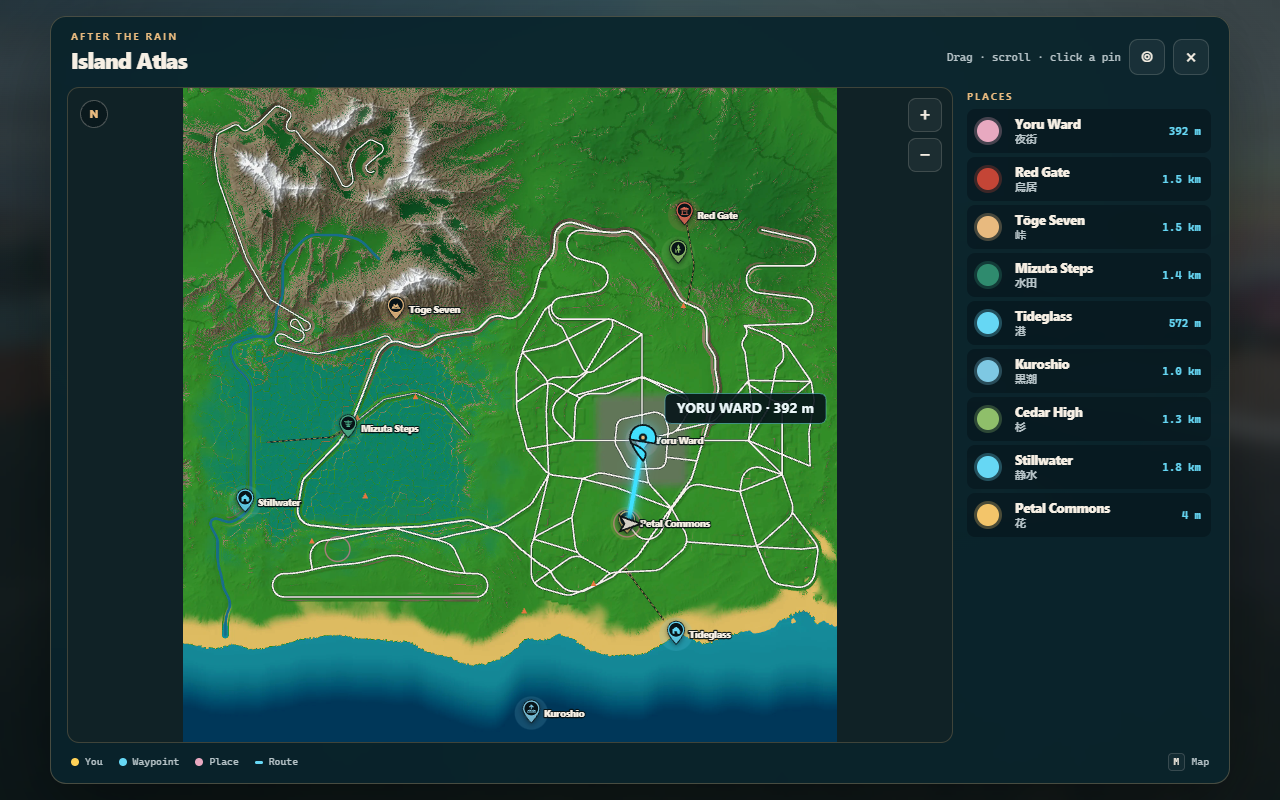
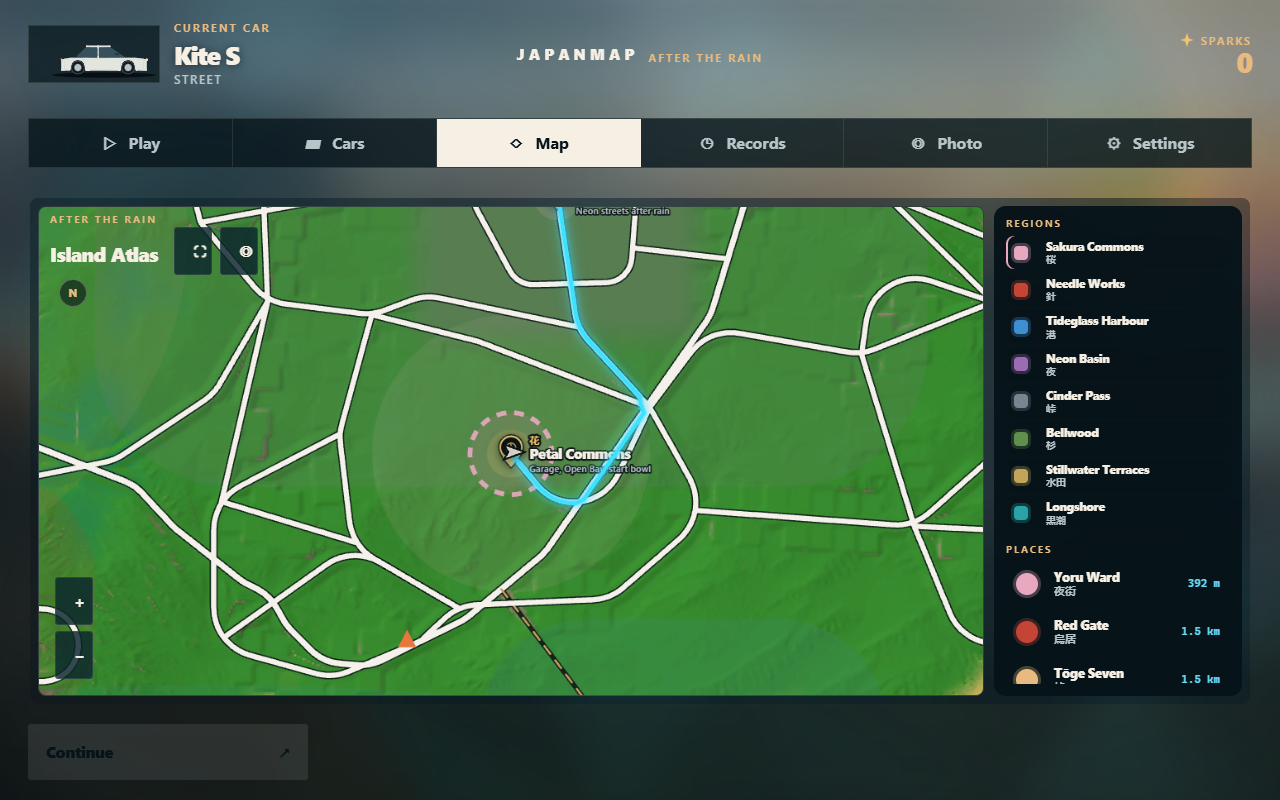
agent(agent/atlas): done

diff --git a/src/ui/navigationMapData.ts b/src/ui/navigationMapData.ts
@@ -19,6 +19,8 @@ export interface MapLandmark {
   readonly icon: MapLandmarkIcon;
   /** Ab welcher Kartenbreite der Text neben dem Icon stehen darf. */
   readonly labelMinPx: number;
+  /** Region-level pin: visible from mid zoom. Interiors wait until near. */
+  readonly major?: boolean;
 }
 
 /**
@@ -30,12 +32,6 @@ export interface MapLandmark {
  * an echte Orte, nicht an generische „City / Forest"-Stempel.
  */
 export const MAP_LANDMARKS: readonly MapLandmark[] = [
-  { id: 'komorebi-diner', label: 'Komorebi Diner', kanji: '食堂', detail: 'Walk inside · counter seats and a warm kitchen', x: 505, z: 35, icon: 'village', labelMinPx: 720 },
-  { id: 'corner-mart', label: 'Kōji Corner Mart', kanji: '小路', detail: 'Walk inside · neighborhood shop', x: 644, z: 145, icon: 'village', labelMinPx: 800 },
-  { id: 'rain-garden', label: 'Rain Garden', kanji: '庭', detail: 'Pond bridge · pavilion · lantern paths', x: 705, z: 48, icon: 'forest', labelMinPx: 740 },
-  { id: 'beacon-tower', label: 'Beacon Tower', kanji: '灯台', detail: 'Twin fins above the hillside courtyard', x: 1116.731, z: -322.865, icon: 'city', labelMinPx: 660 },
-  { id: 'market-hall', label: 'Market Hall', kanji: '市場', detail: 'Open timber hall and produce stalls', x: 474.253, z: 723.877, icon: 'village', labelMinPx: 700 },
-  { id: 'rotor-court', label: 'Rotor Court', kanji: '工房', detail: 'Workshop courtyard and rotary sculpture', x: 205.149, z: 265.145, icon: 'drift', labelMinPx: 700 },
   {
     id: 'stadt',
     label: 'Yoru Ward',
@@ -45,6 +41,7 @@ export const MAP_LANDMARKS: readonly MapLandmark[] = [
     z: 120,
     icon: 'city',
     labelMinPx: 520,
+    major: true,
   },
   {
     id: 'tempel',
@@ -55,6 +52,7 @@ export const MAP_LANDMARKS: readonly MapLandmark[] = [
     z: -940,
     icon: 'temple',
     labelMinPx: 540,
+    major: true,
   },
   {
     id: 'bergpass',
@@ -65,6 +63,7 @@ export const MAP_LANDMARKS: readonly MapLandmark[] = [
     z: -495,
     icon: 'mountain',
     labelMinPx: 600,
+    major: true,
   },
   {
     id: 'reisfelder',
@@ -75,6 +74,7 @@ export const MAP_LANDMARKS: readonly MapLandmark[] = [
     z: 60,
     icon: 'paddy',
     labelMinPx: 560,
+    major: true,
   },
   {
     id: 'fischerdorf',
@@ -85,6 +85,7 @@ export const MAP_LANDMARKS: readonly MapLandmark[] = [
     z: 1030,
     icon: 'village',
     labelMinPx: 620,
+    major: true,
   },
   {
     id: 'kueste',
@@ -95,6 +96,7 @@ export const MAP_LANDMARKS: readonly MapLandmark[] = [
     z: 1400,
     icon: 'coast',
     labelMinPx: 660,
+    major: true,
   },
   {
     id: 'wald',
@@ -105,6 +107,7 @@ export const MAP_LANDMARKS: readonly MapLandmark[] = [
     z: -760,
     icon: 'forest',
     labelMinPx: 700,
+    major: true,
   },
   {
     id: 'stillwater',
@@ -115,6 +118,7 @@ export const MAP_LANDMARKS: readonly MapLandmark[] = [
     z: 409,
     icon: 'village',
     labelMinPx: 620,
+    major: true,
   },
   {
     id: 'commons',
@@ -125,7 +129,14 @@ export const MAP_LANDMARKS: readonly MapLandmark[] = [
     z: 510,
     icon: 'garage',
     labelMinPx: 540,
+    major: true,
   },
+  { id: 'komorebi-diner', label: 'Komorebi Diner', kanji: '食堂', detail: 'Walk inside · counter seats and a warm kitchen', x: 505, z: 35, icon: 'village', labelMinPx: 720 },
+  { id: 'corner-mart', label: 'Kōji Corner Mart', kanji: '小路', detail: 'Walk inside · neighborhood shop', x: 644, z: 145, icon: 'village', labelMinPx: 800 },
+  { id: 'rain-garden', label: 'Rain Garden', kanji: '庭', detail: 'Pond bridge · pavilion · lantern paths', x: 705, z: 48, icon: 'forest', labelMinPx: 740 },
+  { id: 'beacon-tower', label: 'Beacon Tower', kanji: '灯台', detail: 'Twin fins above the hillside courtyard', x: 1116.731, z: -322.865, icon: 'city', labelMinPx: 660 },
+  { id: 'market-hall', label: 'Market Hall', kanji: '市場', detail: 'Open timber hall and produce stalls', x: 474.253, z: 723.877, icon: 'village', labelMinPx: 700 },
+  { id: 'rotor-court', label: 'Rotor Court', kanji: '工房', detail: 'Workshop courtyard and rotary sculpture', x: 205.149, z: 265.145, icon: 'drift', labelMinPx: 700 },
 ] as const;
 
 export function formatMapDistance(meters: number): string {

diff --git a/src/ui/navigationMap.css b/src/ui/navigationMap.css
@@ -69,8 +69,8 @@
 
 .navmap--docked .navmap__head {
   position: absolute;
-  left: 16px;
-  top: 12px;
+  left: 20px;
+  top: 16px;
   z-index: 8;
   padding: 0;
   pointer-events: none;
@@ -81,41 +81,52 @@
 }
 
 .navmap--docked .navmap__zoom {
-  left: 12px;
-  bottom: 14px;
+  left: 16px;
+  bottom: 16px;
   z-index: 11;
 }
 
+.navmap--docked .navmap__compass {
+  top: 72px;
+  left: 20px;
+}
+
+/*
+ * Docked used to paint the Places column on top of a full-bleed stage.
+ * Contain-zoom then centered the world square in that full width — the
+ * sidebar ate the right gutter and the left looked like a missing panel.
+ * Grid gives the plane a real content rect, same contract as the overlay.
+ */
 .navmap--docked .navmap__body {
-  display: block;
+  display: grid;
+  grid-template-columns: minmax(0, 1fr) 248px;
+  gap: 10px;
   position: absolute;
   inset: 0;
+  padding: 8px;
   min-height: 0;
 }
 
 .navmap--docked .navmap__stage {
-  position: absolute;
-  inset: 0;
+  position: relative;
+  inset: auto;
   z-index: 1;
-  border: 0;
+  min-width: 0;
+  min-height: 0;
+  border: 1px solid color-mix(in srgb, var(--amber) 18%, transparent);
   border-radius: 8px;
 }
 
 .navmap--docked .navmap__side {
-  position: absolute;
-  right: 12px;
-  top: 12px;
-  bottom: 12px;
+  position: relative;
+  inset: auto;
   z-index: 10;
-  width: 236px;
+  width: auto;
   padding: 12px;
   border-radius: 12px;
   overflow: hidden;
   background: rgba(6, 20, 26, 0.94);
   backdrop-filter: blur(14px);
-}
-
-.navmap--docked .navmap__side {
   display: flex;
   flex-direction: column;
 }
@@ -223,7 +234,8 @@
   container-type: size;
   border: 1px solid color-mix(in srgb, var(--amber) 22%, transparent);
   border-radius: 12px;
-  background: #12343c;
+  background:
+    radial-gradient(ellipse at 52% 40%, #1a5558 0%, #0d3a48 52%, #071c22 100%);
   touch-action: none;
 }
 
@@ -633,12 +645,14 @@
 }
 
 @media (max-width: 860px) {
-  .navmap__body {
+  .navmap__body,
+  .navmap--docked .navmap__body {
     grid-template-columns: 1fr;
     grid-template-rows: minmax(0, 1fr) auto;
   }
 
-  .navmap__side {
+  .navmap__side,
+  .navmap--docked .navmap__side {
     max-height: 168px;
   }
 

diff --git a/src/ui/NavigationMap.ts b/src/ui/NavigationMap.ts
@@ -7,7 +7,6 @@ import {
   type MapLandmark,
 } from './navigationMapData';
 import {
-  MAP_COVER_SCALE,
   MAP_MAX_SCALE,
   clampMapView,
   centerMapView,
@@ -333,7 +332,10 @@ export class NavigationMap {
     if (already && !options.focusPlayer) return;
     const paint = (): void => {
       if (!this.#docked) return;
-      if (options.focusPlayer || !already) this.focusPlayer();
+      // M / minmap want the car. The Map tab is an atlas: the whole island,
+      // not a crop around the last pose (that left a dark gutter on ultrawide).
+      if (options.focusPlayer) this.focusPlayer();
+      else if (!already) this.fitIsland();
       else {
         this.#applyView();
         this.#drawMarks();
@@ -393,6 +395,7 @@ export class NavigationMap {
     );
     this.#applyView();
     this.#drawMarks();
+    this.#syncPlaceDistances();
   }
 
   #fillRegions(): void {
@@ -500,13 +503,11 @@ export class NavigationMap {
   #drawTerrain(): void {
     if (!this.open || this.#interacting) return;
     const stage = this.#stageSize();
-    if (this.#viewState.scale <= MAP_COVER_SCALE * 1.2) {
-      this.#terrain.hidden = true;
-      this.#base.style.opacity = '1';
-      return;
-    }
+    // Contain-zoom leaves letterbox around the world square. Painting the
+    // aerial into the stage (ocean fill outside 0..1) makes those bars sea
+    // instead of empty UI chrome — the 1024 base stays as the pan preview.
     this.#terrain.hidden = false;
-    this.#base.style.opacity = '0';
+    this.#base.style.opacity = this.#backdrop.ready ? '0' : '1';
     this.#syncTerrainSize();
     const plane = Math.max(stage.width, stage.height);
     const left = (stage.width - plane) * 0.5;
@@ -878,7 +879,7 @@ export class NavigationMap {
     this.#regionLayer.setViewScale(scale);
     this.#syncZoomButtons();
     this.#drawMarks();
-    if (hq) this.#scheduleHq();
+    if (hq) this.#drawTerrain();
   }
 
   #syncZoomButtons(): void {

diff --git a/src/ui/navigationMapPolish.css b/src/ui/navigationMapPolish.css
@@ -12,13 +12,13 @@
 }
 
 .navmap-region-wash {
-  fill-opacity: 0.22;
+  fill-opacity: 0.1;
   stroke: none;
   pointer-events: none;
 }
 
 .navmap-region-wash--soft {
-  fill-opacity: 0.12;
+  fill-opacity: 0.06;
 }
 
 .navmap-region-label {
@@ -43,7 +43,7 @@
 
 .navmap-region-label__kanji {
   fill: currentColor;
-  stroke-width: 5px;
+  stroke-width: 4px;
   font-size: 11px;
   font-weight: 700;
   letter-spacing: 0.18em;
@@ -51,20 +51,39 @@
 
 .navmap-region-label__name {
   fill: #f6efe4;
-  stroke-width: 6px;
-  font-size: 13px;
+  stroke-width: 4px;
+  font-size: 15px;
   font-weight: 800;
-  letter-spacing: 0.14em;
+  letter-spacing: 0.12em;
 }
 
 .navmap-region-label.is-selected .navmap-region-label__name {
   fill: #ffe7b0;
 }
 
+/*
+ * Far zoom keeps region names and hides pins. The two used to share a
+ * world point (Bellwood = Cedar High, Neon Basin = Yoru Ward), so the
+ * teardrop punched BEL…OD / SAKURA…MMONS out of the label.
+ * Local Neon interiors stay off until near — they sit inside 1 km of the Ward.
+ */
+.navmap--regionNames .navmap-poi,
+.navmap[data-zoom='far'] .navmap-poi,
+.navmap[data-zoom='mid'] .navmap-poi--local {
+  display: none;
+}
+
 .navmap--regionNames .navmap-poi__label,
 .navmap--regionNames .navmap-poi__kanji,
 .navmap--regionNames .navmap-poi__detail,
 .navmap[data-zoom='far'] .navmap-poi__label {
+  display: none;
+}
+
+.navmap[data-zoom='far'] .navmap-zone,
+.navmap[data-zoom='far'] .navmap-ramp,
+.navmap--regionNames .navmap-zone,
+.navmap--regionNames .navmap-ramp {
   display: none;
 }
 

diff --git a/src/ui/NavigationMapBackdrop.ts b/src/ui/NavigationMapBackdrop.ts
@@ -68,14 +68,26 @@ export class NavigationMapBackdrop {
 
     const sw = this.#graded.width;
     const sh = this.#graded.height;
-    const sx = nx0 * sw;
-    const sy = ny0 * sh;
-    const tw = (nx1 - nx0) * sw;
-    const th = (ny1 - ny0) * sh;
+    const spanX = nx1 - nx0;
+    const spanY = ny1 - ny0;
+    if (spanX <= 1e-6 || spanY <= 1e-6) return;
+    const cx0 = clamp01(nx0);
+    const cy0 = clamp01(ny0);
+    const cx1 = clamp01(nx1);
+    const cy1 = clamp01(ny1);
+    if (cx1 <= cx0 || cy1 <= cy0) return;
+    const sx = cx0 * sw;
+    const sy = cy0 * sh;
+    const tw = (cx1 - cx0) * sw;
+    const th = (cy1 - cy0) * sh;
     if (tw <= 0.5 || th <= 0.5) return;
+    const dx = ((cx0 - nx0) / spanX) * destW;
+    const dy = ((cy0 - ny0) / spanY) * destH;
+    const dw = ((cx1 - cx0) / spanX) * destW;
+    const dh = ((cy1 - cy0) / spanY) * destH;
     ctx.imageSmoothingEnabled = true;
     ctx.imageSmoothingQuality = 'medium';
-    ctx.drawImage(this.#graded, sx, sy, tw, th, 0, 0, destW, destH);
+    ctx.drawImage(this.#graded, sx, sy, tw, th, dx, dy, dw, dh);
   }
 
   dispose(): void {
@@ -95,4 +107,8 @@ export class NavigationMapBackdrop {
     ctx.drawImage(this.#image, 0, 0, width, height);
     ctx.filter = 'none';
   }
+}
+
+function clamp01(value: number): number {
+  return value < 0 ? 0 : value > 1 ? 1 : value;
 }

diff --git a/src/ui/NavigationPoiLayer.ts b/src/ui/NavigationPoiLayer.ts
@@ -35,6 +35,7 @@ export class NavigationPoiLayer {
       const y = point.y * size;
       const group = document.createElementNS(NS, 'g');
       group.classList.add('navmap-poi', `navmap-poi--${landmark.icon}`);
+      if (!landmark.major) group.classList.add('navmap-poi--local');
       group.dataset.id = landmark.id;
       group.setAttribute('transform', `translate(${x.toFixed(2)} ${y.toFixed(2)})`);
       this.#origin.set(landmark.id, { x, y });

diff --git a/src/ui/PlayerUi.ts b/src/ui/PlayerUi.ts
@@ -501,7 +501,6 @@ export class PlayerUi {
     for (const button of menu.querySelectorAll<HTMLButtonElement>("[data-tab]"))
       button.onclick = () => {
         const next = button.dataset.tab as Tab;
-        if (next === "map") this.#mapFocusPlayer = true;
         this.#tab = next;
         this.#render();
       };
